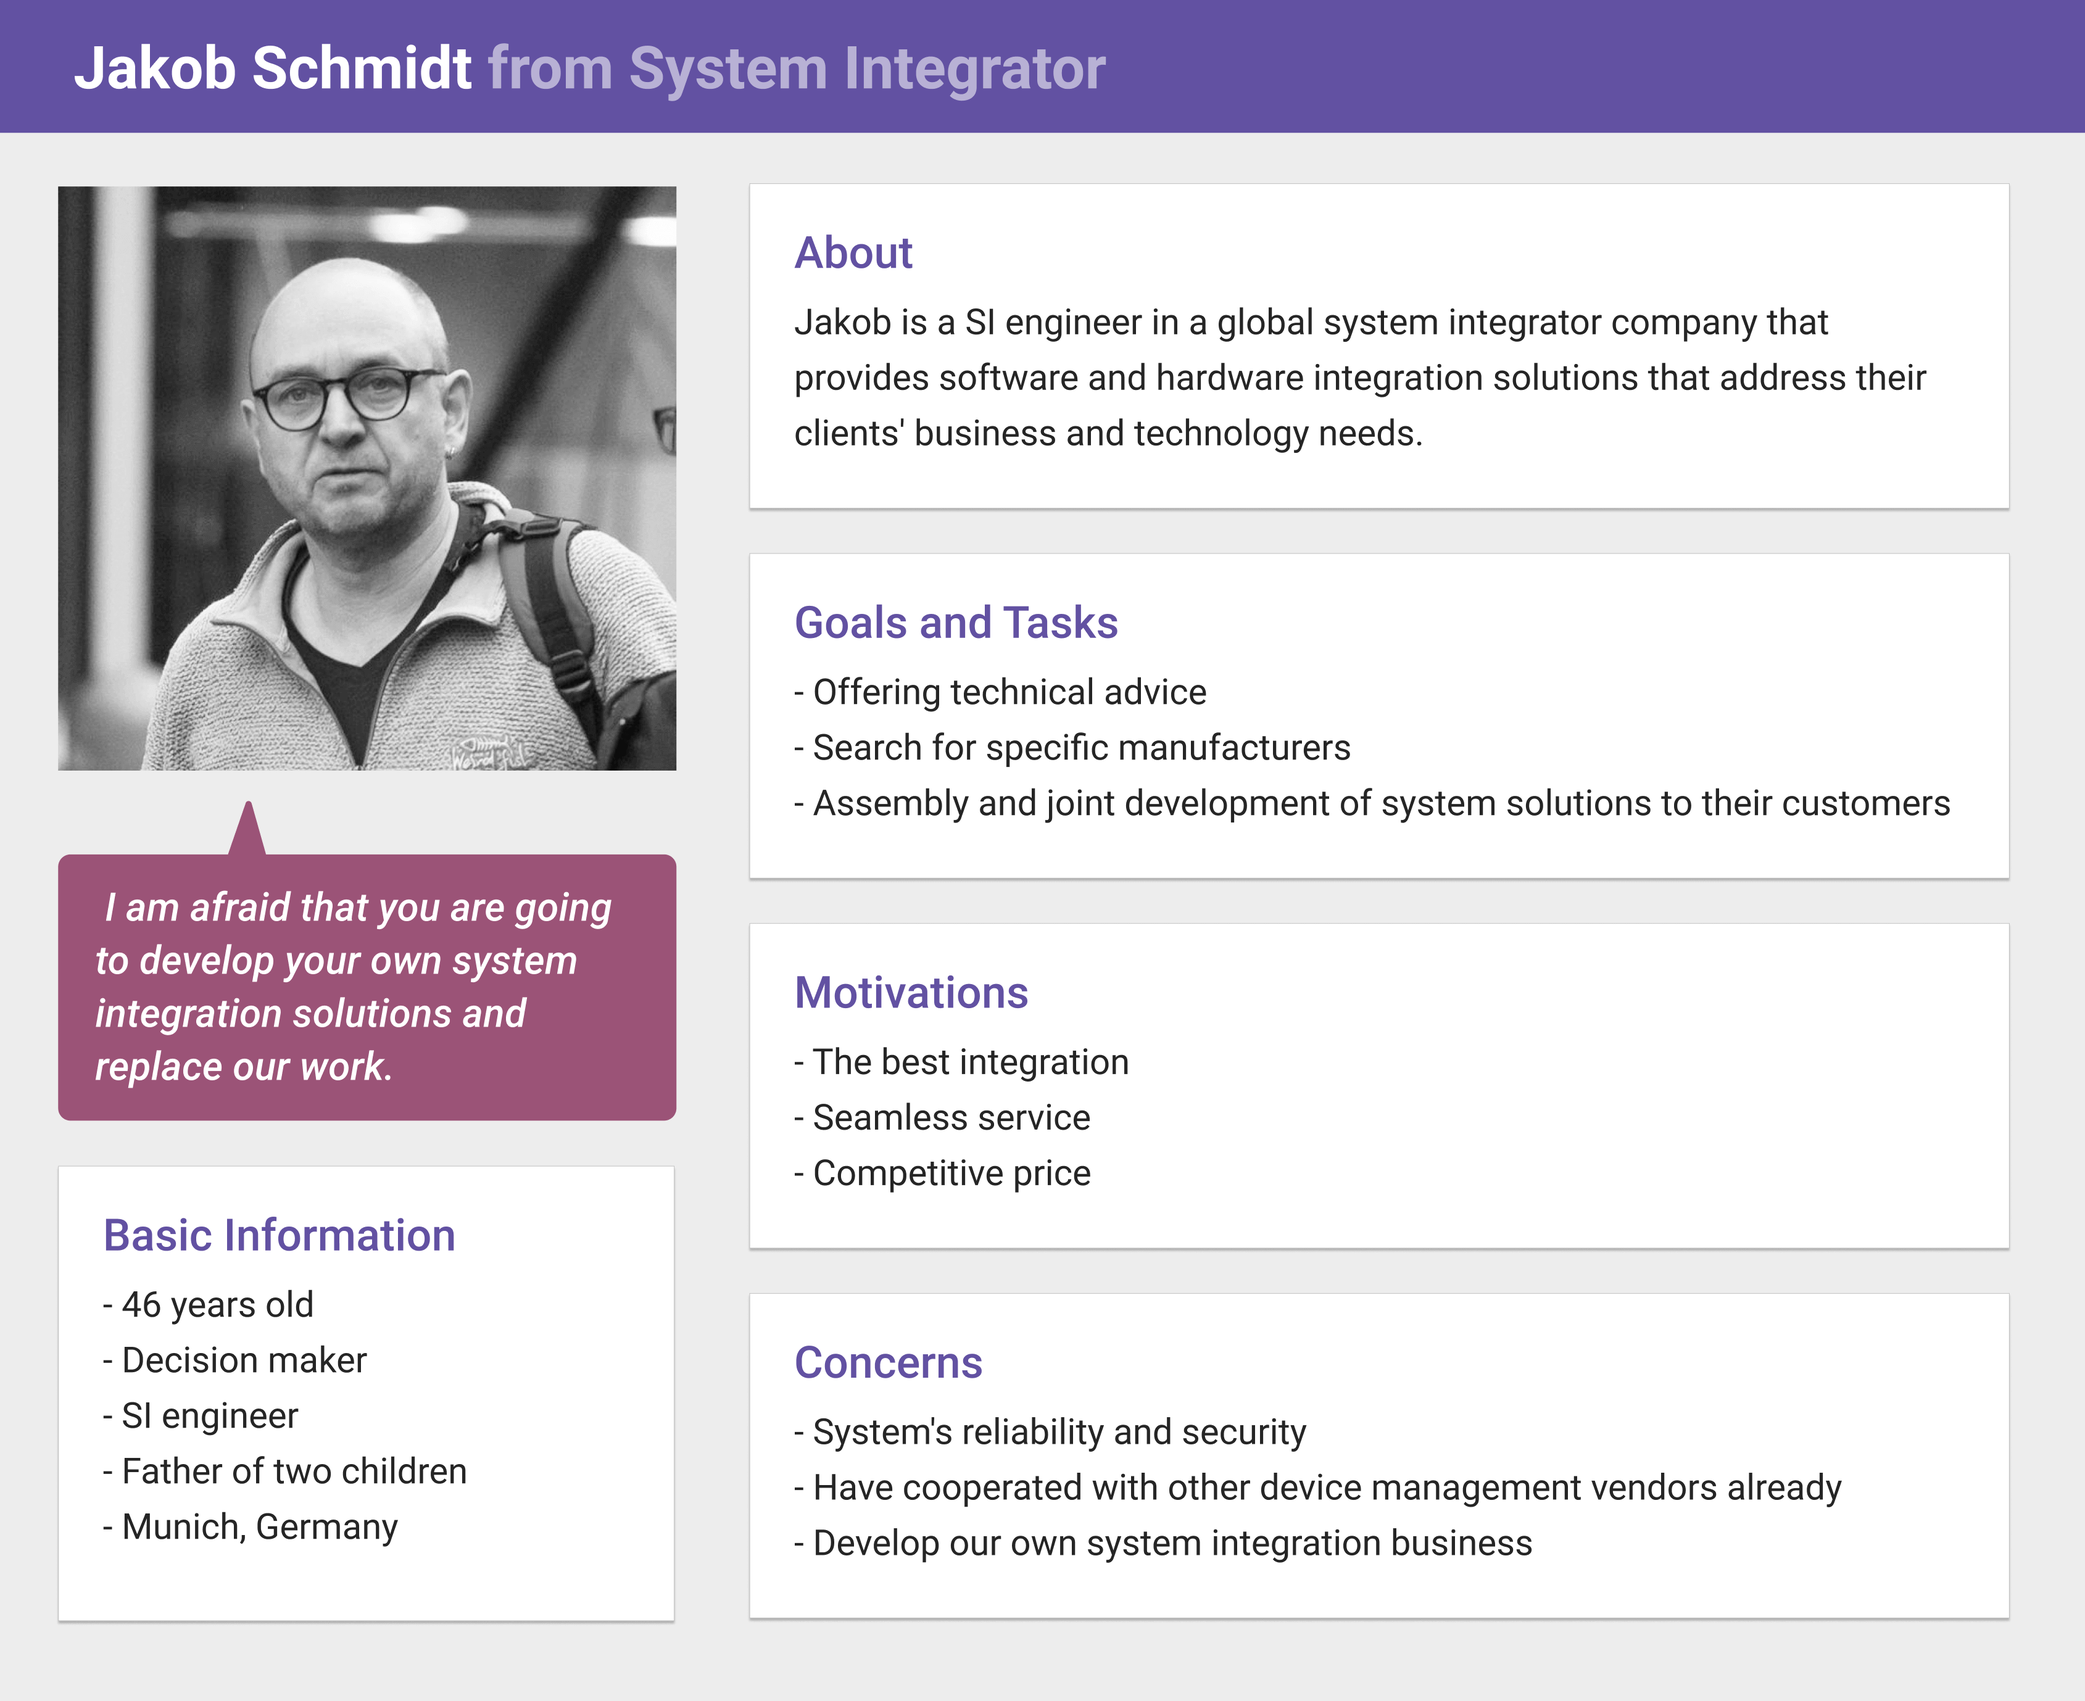
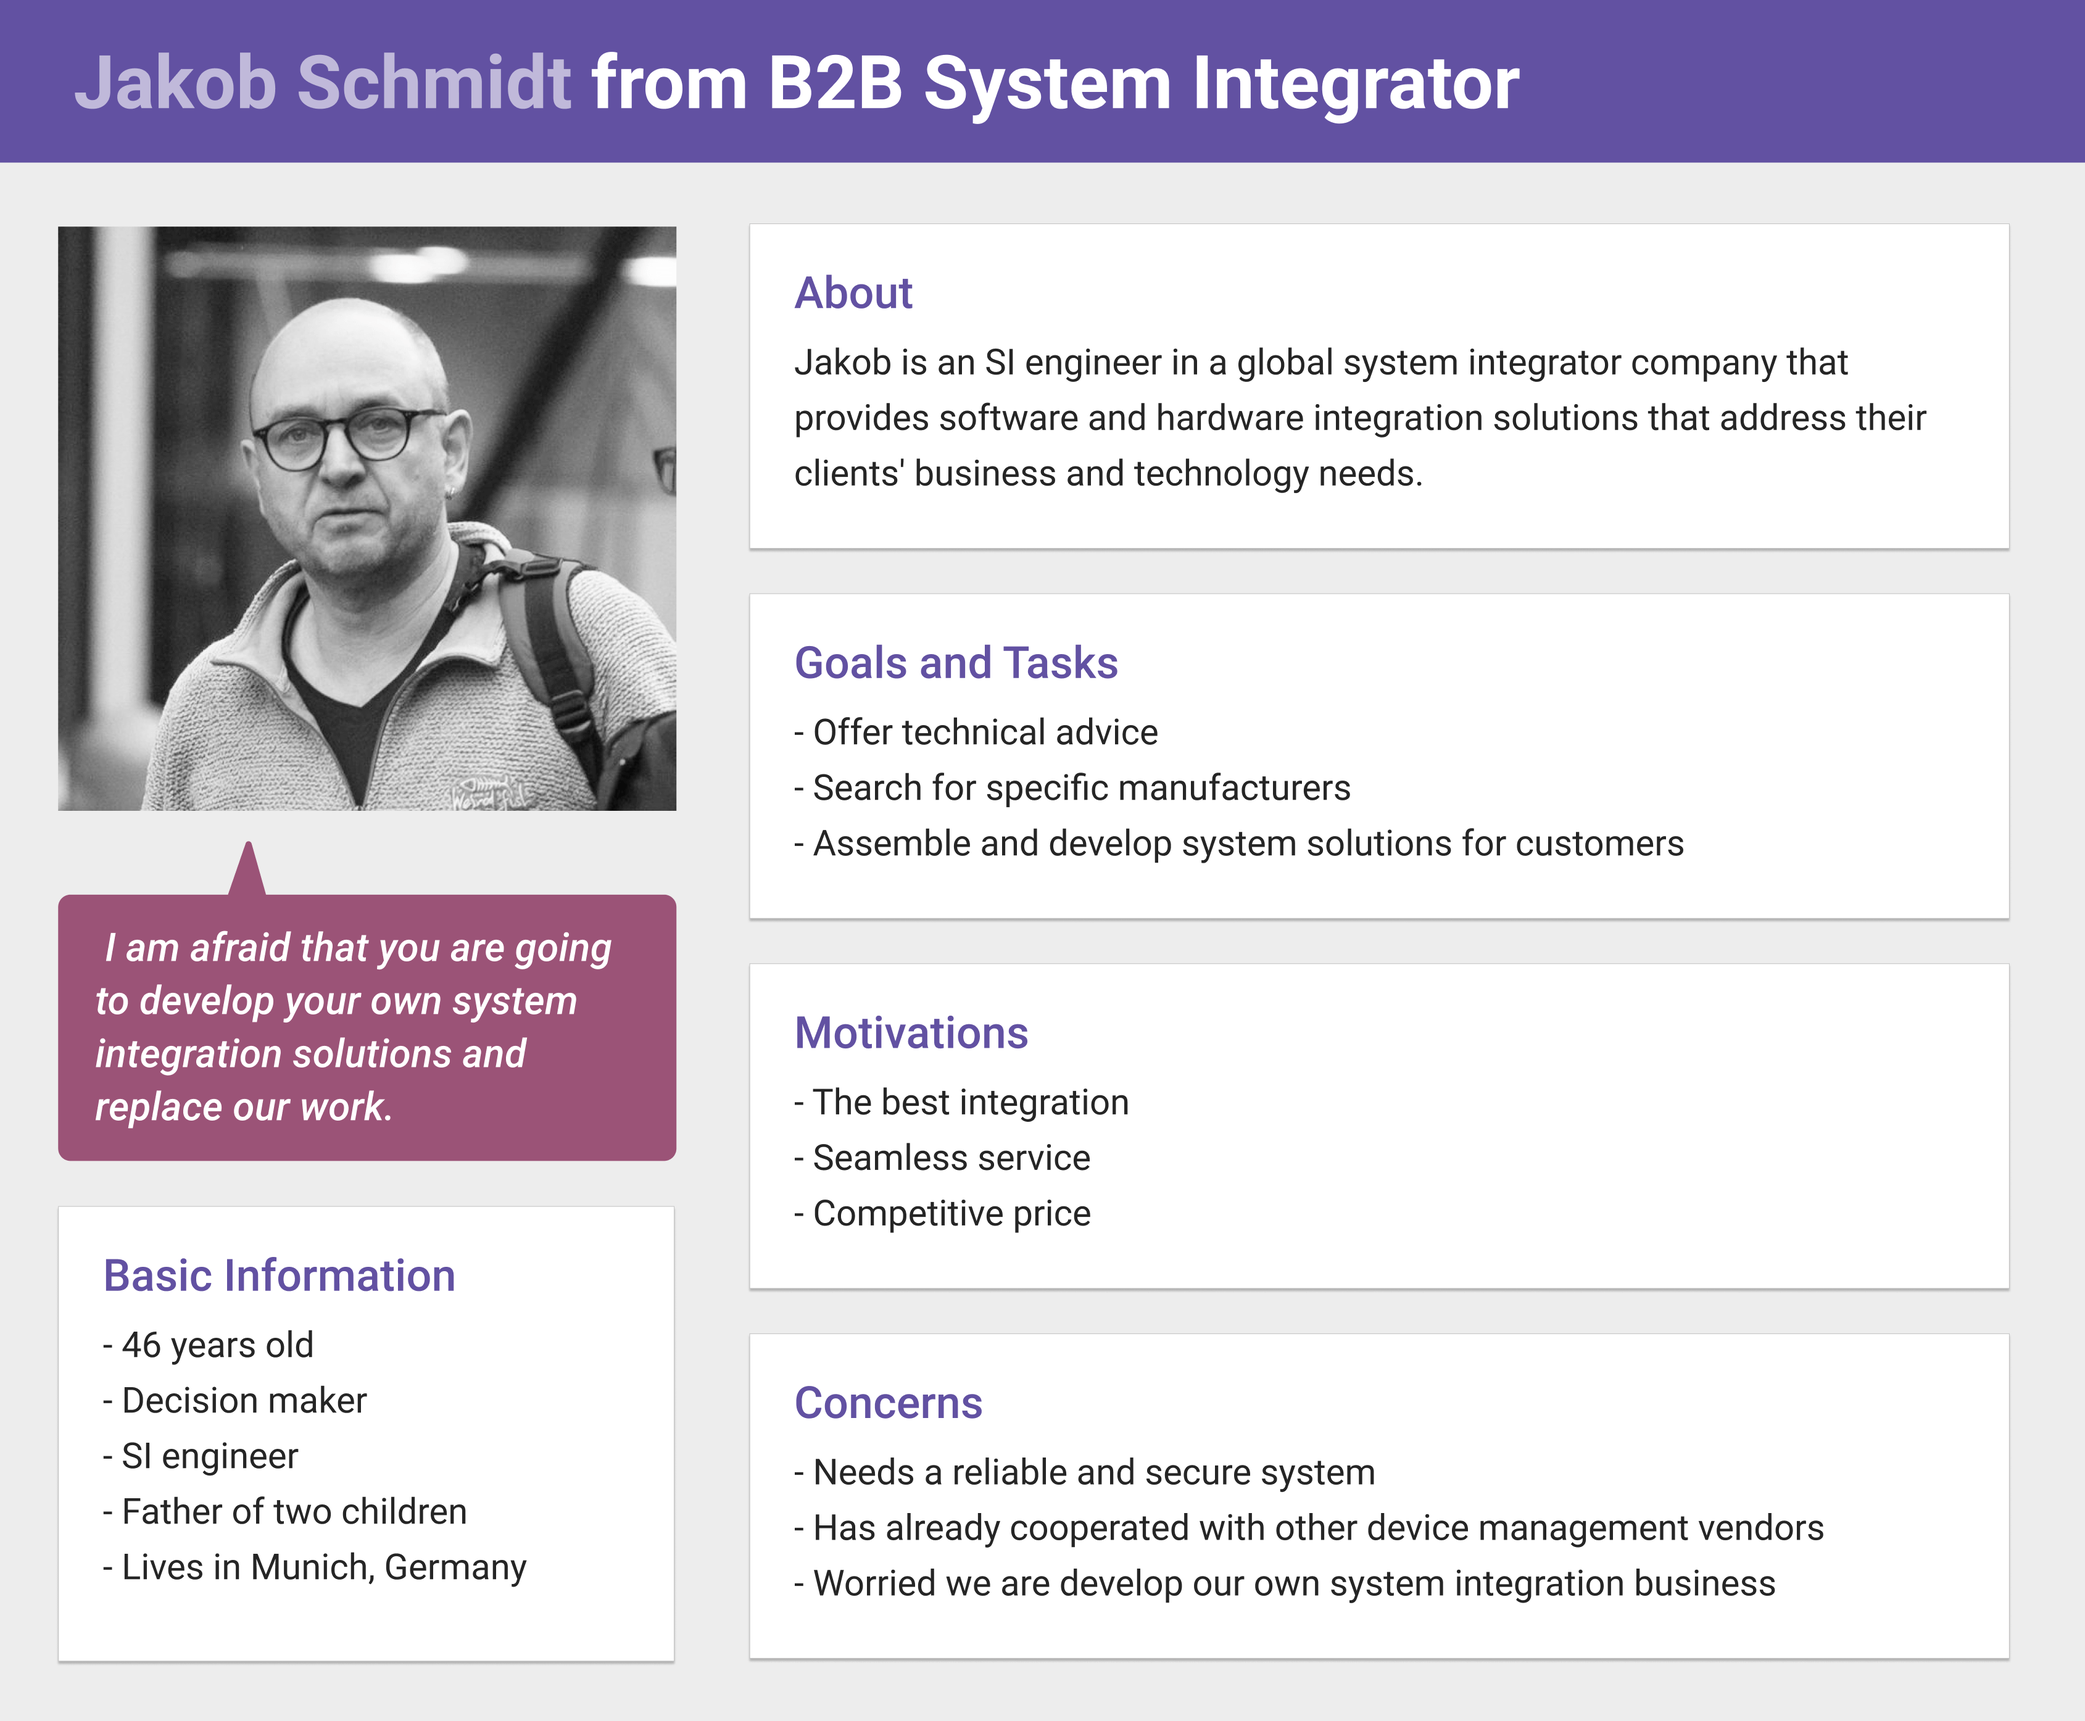
iot competitor & persona png

diff --git a/works/iot/index.html b/works/iot/index.html
@@ -93,7 +93,7 @@
 			<div class="container list text-center">
 				<h1>IoT Device Management</h1>
 				<div class="webintro">
-					<p>A project that designed a dashboard and an onboarding experience to enhance users confidence and improve
+					<p>A project that designed a dashboard and an onboarding experience to improve
 						usability based on qualitative and quantitative research.
 
 					</p>
@@ -254,8 +254,8 @@
 
 				<div class="seperate"> ·&nbsp;&nbsp;&nbsp;·&nbsp;&nbsp;&nbsp;·</div>
 				<div class="list">
-					<h4>Competitive Analysis</h4>
-					<p>Our biggest strength is our large number of hardware customers as the platform offers the best integration
+					<h4>Competitor Analysis</h4>
+					<p>Our biggest strength is our large number of hardware customers and the platform offers the best integration
 						with our own-brand tablets.</p>
 				</div>
 
@@ -274,11 +274,8 @@
 					<p>
 						According to our sales representatives, we have two types of customers: <b>the B2B system integrators</b>
 						and <b>the
-							B2C businesses</b>. Although system integrators often buy more tablets, they generally regard us as an
-						ODM/OEM
-						manufacturer. Moreover, they
-						require a more professional, reliable, and secure system. Since we are a small team, it is not easy for us
-						to ensure that, so it’s best if we focus on small businesses first.
+							B2C businesses</b>. Although system integrators often buy more tablets, we cannot solve their concern at
+						this time. So, it’s best if we focus on B2C businesses first.
 					</p>
 				</div>
 
